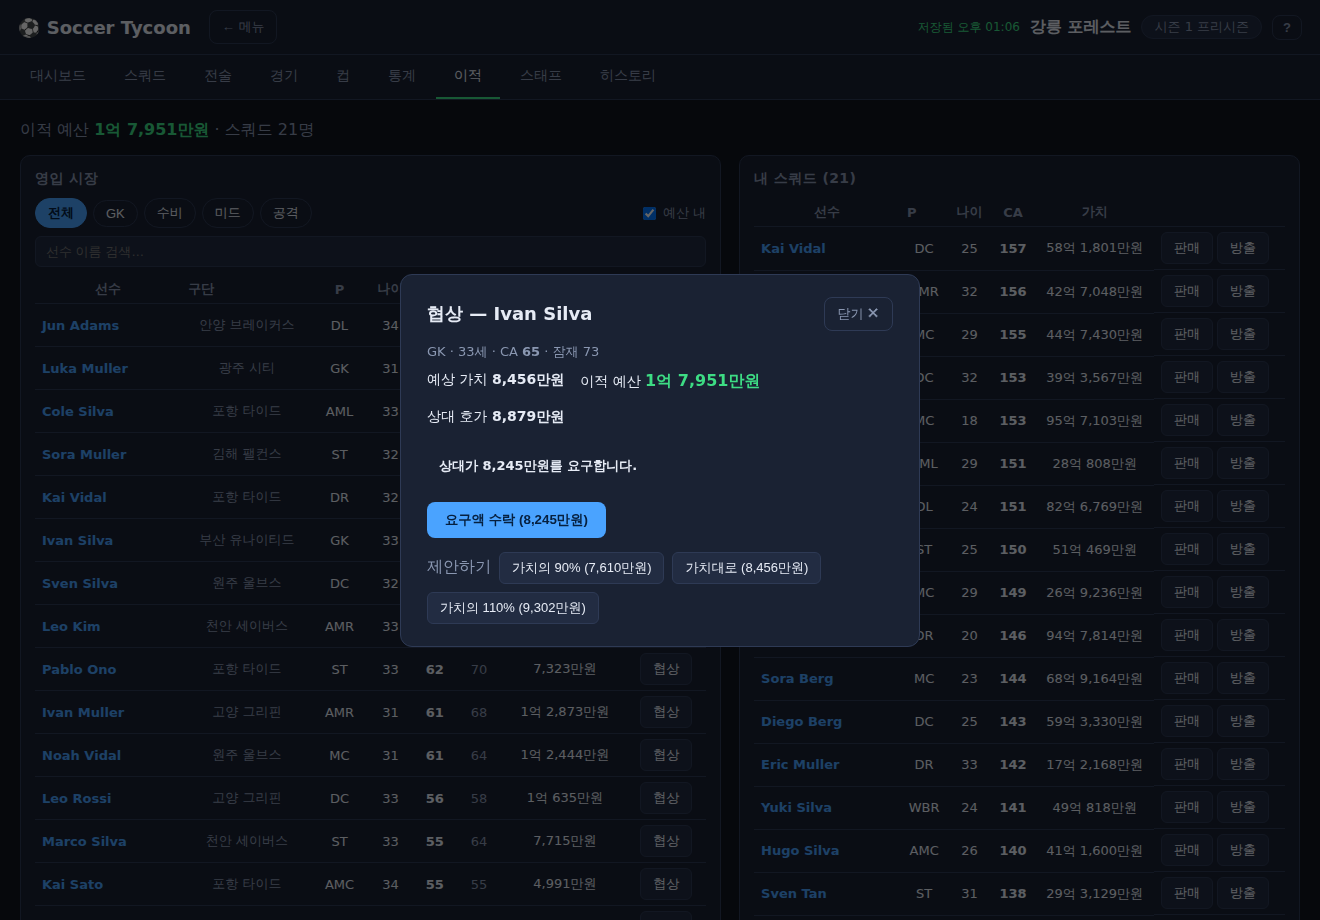
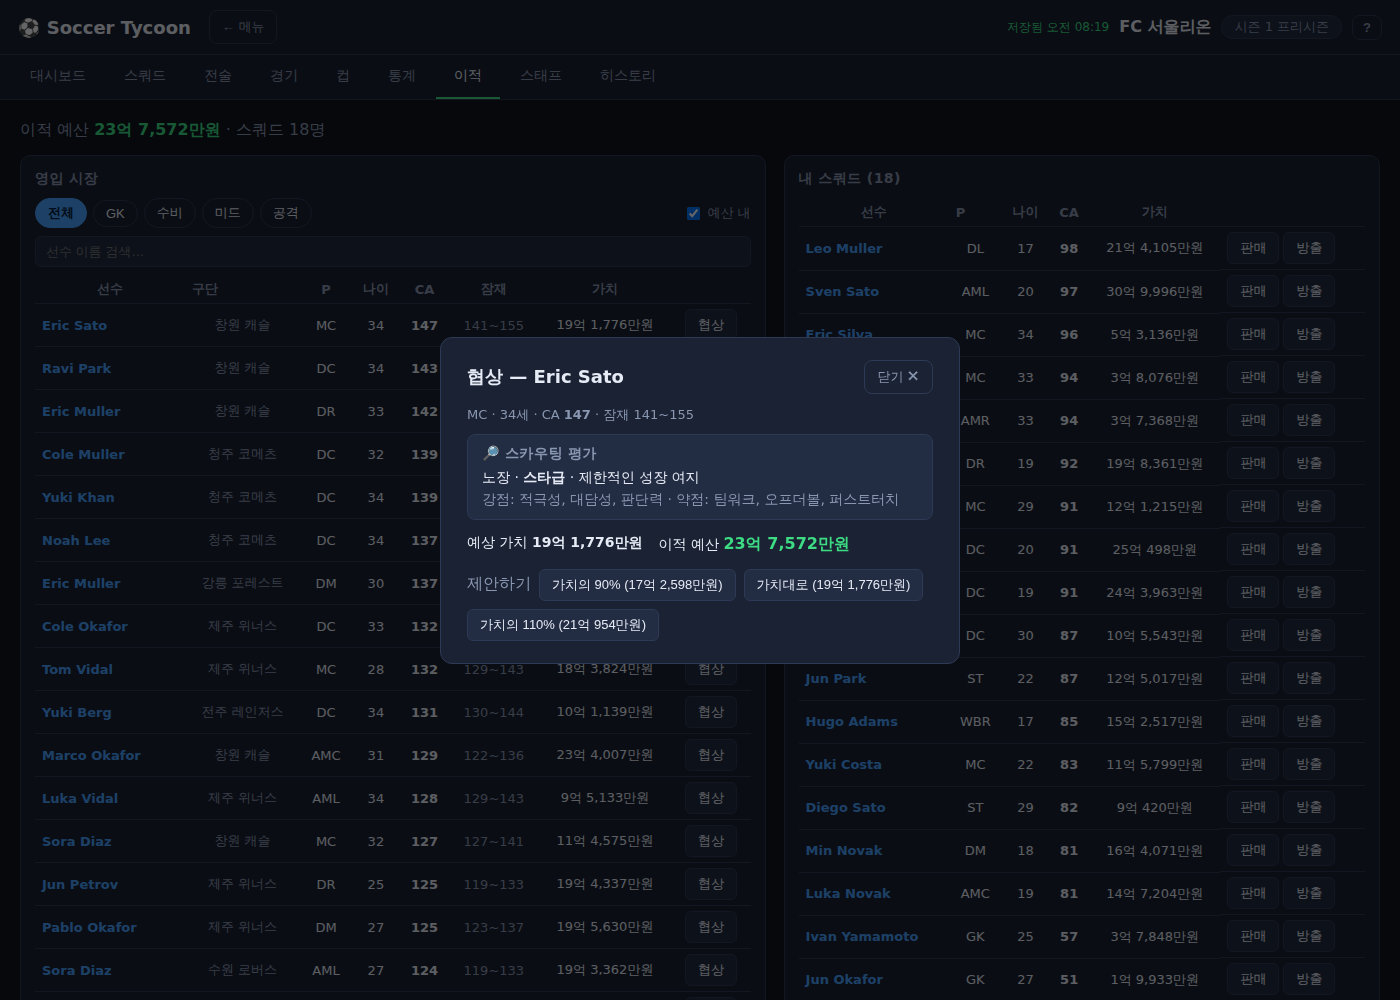
이적 시장 협상 모달에 스카우팅 리포트 노출
buildScoutingReport는 원래 scoutingLevel로 정보 공개 수준을 조절하도록
설계돼 있었지만, 실제로는 선수 상세에서만 FULL_SCOUTING(20)으로 호출돼
그 게이팅이 쓰인 적이 없었다. 이적 후보를 검토할 때가 스카우팅 등급이
진짜 의미를 가지는 시점이라, 협상 모달에 같은 리포트를 내 구단의 실제
스카우팅 레벨로 호출해 노출한다 — CA는 기존처럼 항상 정확히 보이고,
잠재력 등급만 스카우팅이 낮으면(<8) "성장 가능성 미상"으로 가려진다.

- PlayerDetail.tsx: 리포트 렌더링을 ScoutingSummary 컴포넌트로 분리해
  선수 상세·이적 협상 모달이 공유. OVERALL_LABEL·POTENTIAL_LABEL·
  AGE_LABEL export
- Transfers.tsx: NegotiationModal에 스카우팅 평가 블록 추가
- 엔진 변경 없음(기존 buildScoutingReport 재사용), 새 로직이 없어 테스트
  추가 없이 Playwright로 렌더링 확인

Claude-Session: https://claude.ai/code/session_0117rzD5JcoktrsoA8fWGnDA

diff --git a/packages/app/src/components/PlayerDetail.tsx b/packages/app/src/components/PlayerDetail.tsx
@@ -5,7 +5,7 @@ import {
   currentAbility, marketValue, playerDerived, isInjured, isSuspended,
   formatMoney, buildScoutingReport,
   type AttrKey, type Player, type DerivedRatings, type TrainingFocus,
-  type PlayerFormEntry, type OverallTier, type PotentialTier, type AgeProfile,
+  type PlayerFormEntry, type OverallTier, type PotentialTier, type AgeProfile, type ScoutingReport,
 } from '@soccer-tycoon/engine';
 
 function moraleLabel(m: number): { text: string; cls: string } {
@@ -18,26 +18,26 @@ function ratingCls(r: number): string {
   return r >= 7.5 ? 'good' : r >= 6.5 ? 'mid' : 'poor';
 }
 
-const OVERALL_LABEL: Record<OverallTier, string> = {
+export const OVERALL_LABEL: Record<OverallTier, string> = {
   worldClass: '월드클래스', star: '스타급', quality: '준수한 실력자',
   squad: '스쿼드 로테이션 자원', fringe: '주전 경쟁이 필요한 자원',
 };
-const POTENTIAL_LABEL: Record<PotentialTier, string> = {
+export const POTENTIAL_LABEL: Record<PotentialTier, string> = {
   generational: '역대급 잠재력', high: '높은 성장 가능성', moderate: '보통 수준의 성장 가능성',
   limited: '제한적인 성장 여지', unknown: '성장 가능성 미상',
 };
-const AGE_LABEL: Record<AgeProfile, string> = {
+export const AGE_LABEL: Record<AgeProfile, string> = {
   wonderkid: '유망주', prime: '전성기', veteran: '베테랑', declining: '노장',
 };
 
 /** 상세 화면은 항상 정밀 평가(스카우팅 레벨 최대치 가정) — PA도 이미 그대로 노출되므로 일관성 유지. */
 const FULL_SCOUTING = 20;
 
-function ScoutingPanel({ player }: { player: Player }) {
-  const report = buildScoutingReport(player, FULL_SCOUTING);
+/** 스카우팅 리포트 서술 블록(선수 상세·이적 시장 협상 모달에서 공유). */
+export function ScoutingSummary({ report, title }: { report: ScoutingReport; title?: string }) {
   return (
     <div className="pd-scouting">
-      <h3>🔎 스카우팅 리포트</h3>
+      <h3>{title ?? '🔎 스카우팅 리포트'}</h3>
       <p>
         {AGE_LABEL[report.ageProfile]} · <b>{OVERALL_LABEL[report.overallTier]}</b> ·{' '}
         {POTENTIAL_LABEL[report.potentialTier]}
@@ -48,6 +48,11 @@ function ScoutingPanel({ player }: { player: Player }) {
       </p>
     </div>
   );
+}
+
+function ScoutingPanel({ player }: { player: Player }) {
+  const report = buildScoutingReport(player, FULL_SCOUTING);
+  return <ScoutingSummary report={report} />;
 }
 
 export const ATTR_LABELS: Record<AttrKey, string> = {

diff --git a/packages/app/src/components/Transfers.tsx b/packages/app/src/components/Transfers.tsx
@@ -1,9 +1,10 @@
 import { useMemo, useState } from 'react';
 import { myClub, lastSummary, type GameState, type ActionOutcome } from '../game.js';
 import {
-  transferTargets, marketValue, currentAbility, formatMoney, lineOf,
+  transferTargets, marketValue, currentAbility, formatMoney, lineOf, buildScoutingReport,
   type Line, type Player, type OfferEvaluation, type TransferTarget, type SellOffer,
 } from '@soccer-tycoon/engine';
+import { ScoutingSummary } from './PlayerDetail.js';
 
 interface Props {
   game: GameState;
@@ -279,6 +280,7 @@ function NegotiationModal({
           {player.position} · {player.age}세 · CA <b>{currentAbility(player).toFixed(0)}</b>
           {' · '}잠재 {revealPotential(scouting, player.potential)}
         </p>
+        <ScoutingSummary report={buildScoutingReport(player, scouting)} title="🔎 스카우팅 평가" />
         <div className="neg-facts">
           <span>예상 가치 <b>{formatMoney(value)}</b></span>
           <span>이적 예산 <b className="budget">{formatMoney(budget)}</b></span>

diff --git a/packages/app/src/components/Help.tsx b/packages/app/src/components/Help.tsx
@@ -7,7 +7,7 @@ const ITEMS: { tab: string; text: string }[] = [
   { tab: '경기', text: '내 부(1·2부) 리그 진행. 시즌 시작 시 언론 예상 순위가 나옵니다. "관전"으로 2D 실시간 + 하프타임 개입. 경기 중 부상 발생 시 즉시 교체할지 물어봅니다. 라이벌 구단과의 경기는 "🔥 라이벌전"으로 표시됩니다. 경기 후 가끔 기자 인터뷰가 열려 답변 톤에 따라 사기·이사회 신뢰도가 바뀝니다. 시즌 말 승강.' },
   { tab: '컵', text: '리그 병행 단판 토너먼트. 내 컵 경기는 "관전"으로 2D 실시간 + 하프타임 개입, 또는 한 번에 시뮬. 우승 시 상금.' },
   { tab: '통계', text: '리그 득점 순위, 내 구단 시즌 기록, 시즌 어워드.' },
-  { tab: '이적', text: '(프리시즌) 영입은 협상제(제안→수락/역제안/거절, 핵심 선수일수록 호가↑). 판매는 관심 구단들의 입찰 중 선택. 방출도 가능.' },
+  { tab: '이적', text: '(프리시즌) 영입은 협상제(제안→수락/역제안/거절, 핵심 선수일수록 호가↑). 협상 모달에서 매물의 스카우팅 리포트(등급·강점/약점)도 확인할 수 있습니다(스카우팅 레벨이 낮으면 잠재력은 미상). 판매는 관심 구단들의 입찰 중 선택. 방출도 가능.' },
   { tab: '스태프', text: '코칭(성장)·의료(부상)·스카우팅(정보)·유스(유망주) 업그레이드.' },
   { tab: '히스토리', text: '명예의 전당(내 구단 우승·최고순위)과 역대 시즌·구단별 우승 순위·통산 득점 순위·은퇴 선수 레전드 아카이브.' },
 ];

diff --git a/docs/design.md b/docs/design.md
@@ -343,6 +343,15 @@ soccer-tycoon/
       이미지가 쉽게 뒤집히지 않도록 최소 표본과 격차 기준을 둔 것. 대시보드에
       "거침없는 승부사"/"신중한 리더" 별명 카드로 표시(neutral일 땐 미표시).
       순수 추적·연출 기능 — 이미지 자체가 다른 수치에 영향을 주진 않는다.
+- [x] 이적 시장 스카우팅 리포트: buildScoutingReport는 원래 scoutingLevel
+      인자로 정보 공개 수준을 조절하도록 설계돼 있었지만, 실제로는 선수
+      상세(PlayerDetail)에서만 항상 FULL_SCOUTING(20)으로 호출되어 그
+      게이팅이 쓰인 적이 없었다. 이적 시장 협상 모달(Transfers.tsx)에 같은
+      리포트를 내 구단의 실제 스카우팅 레벨로 호출해 노출 — 매물 CA는
+      기존처럼 항상 정확히 보이되(관찰 가능), 잠재력 등급은 스카우팅이
+      낮으면 "성장 가능성 미상"으로 가려진다(기존 잠재력 범위 표시와 같은
+      원칙). PlayerDetail의 리포트 렌더링을 ScoutingSummary 컴포넌트로 뽑아
+      두 화면이 공유 — 엔진 변경 없이 기존 기능을 재사용한 순수 UI 배선.
 
 기획했던 핵심·확장 시스템이 모두 구현됨. 이후는 콘텐츠 확충·디테일 다듬기 영역.
 